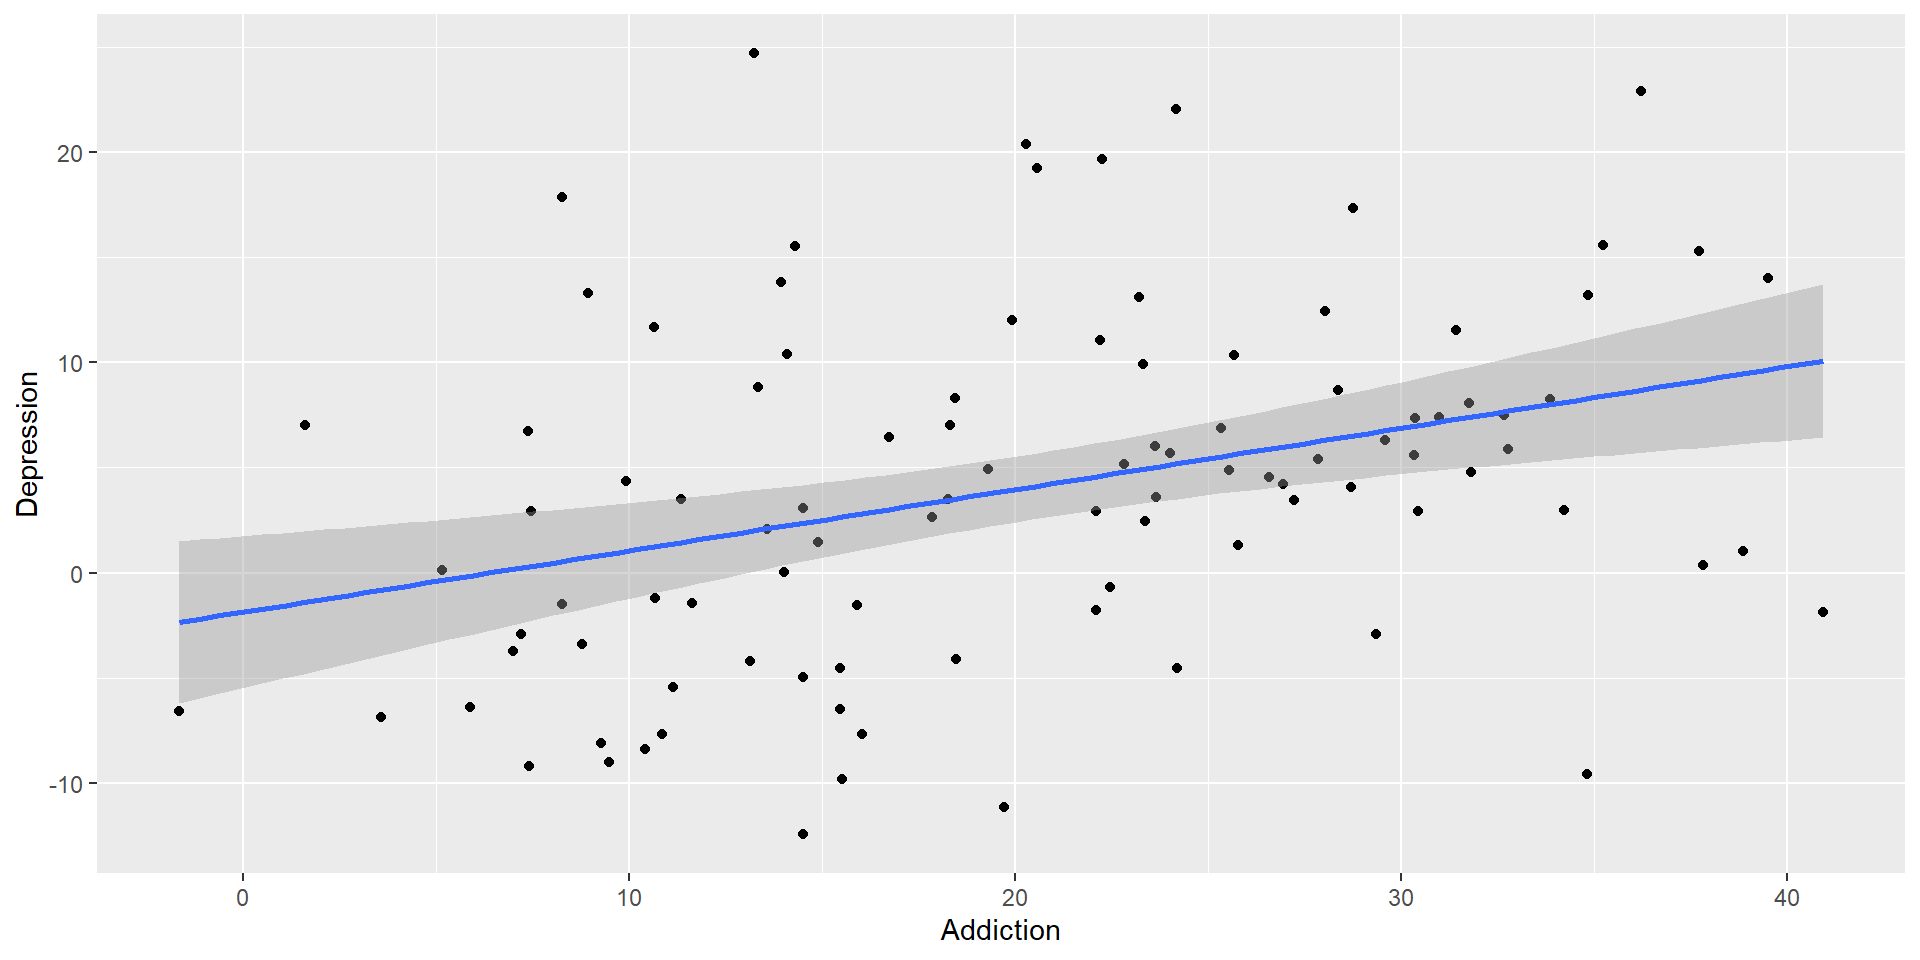
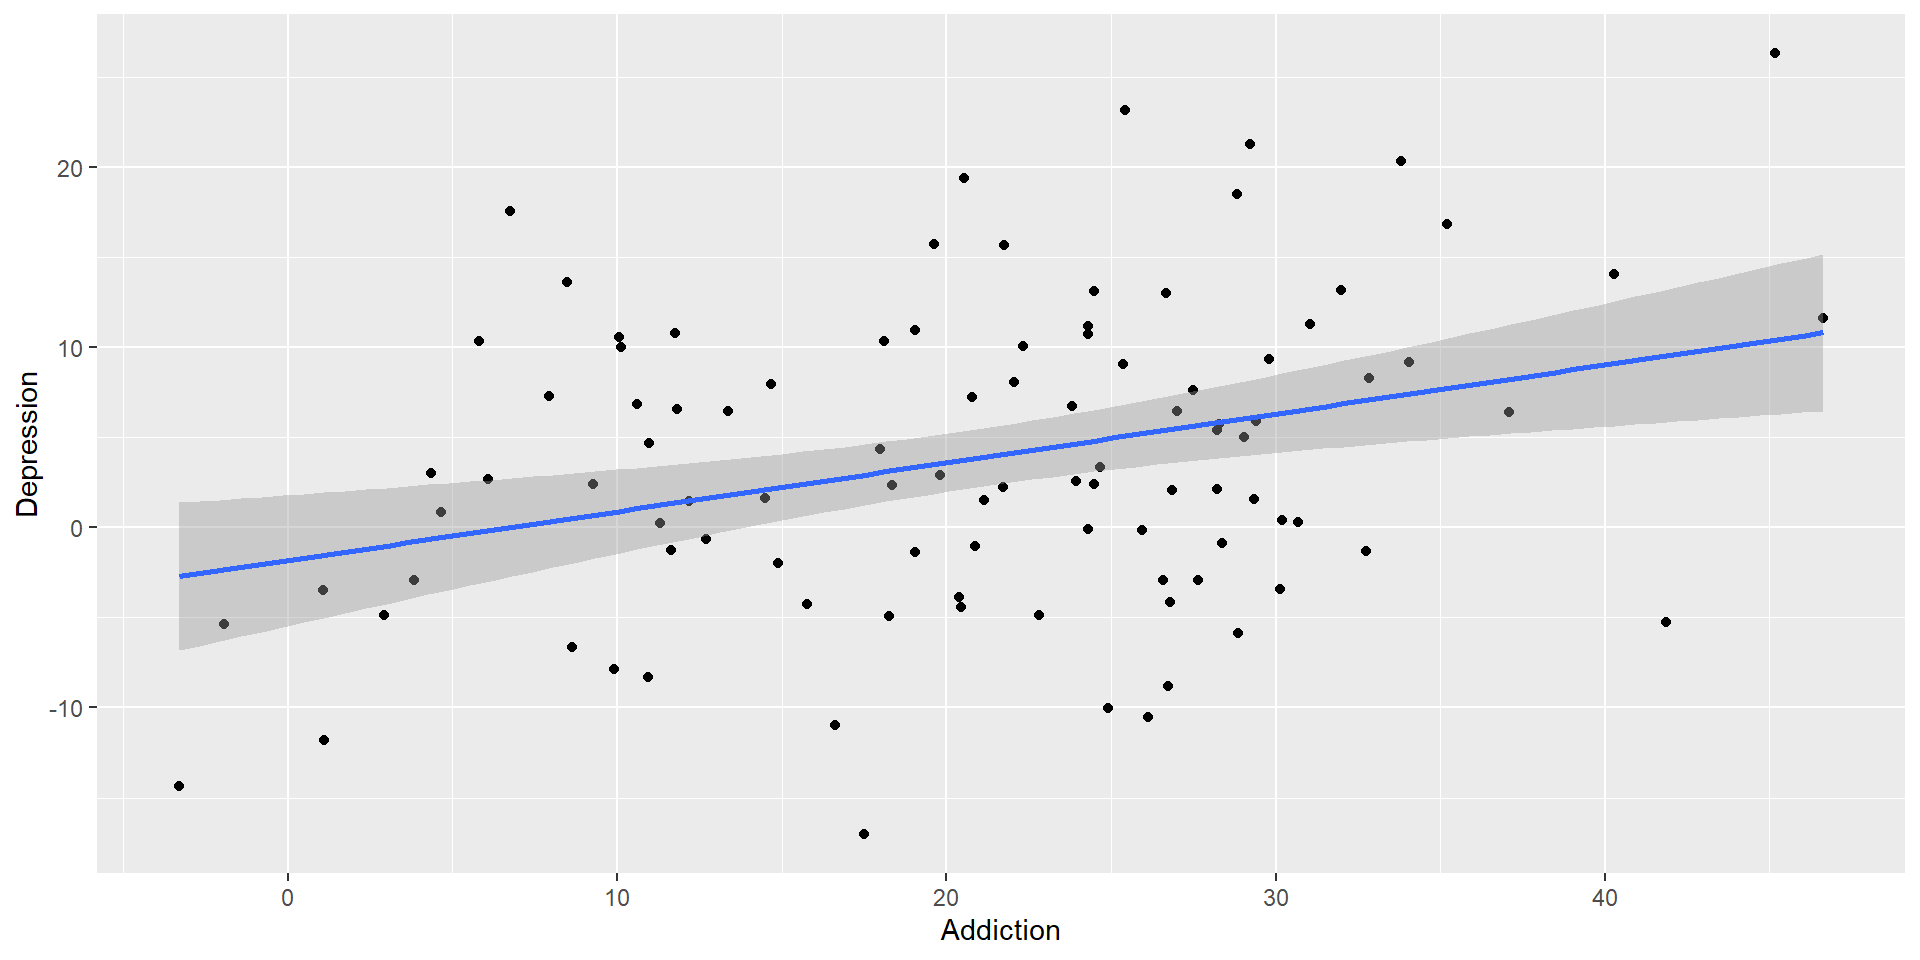
week12

diff --git a/docs/presentations/week12.html b/docs/presentations/week12.html
@@ -269,7 +269,7 @@
 y = mx + b
 \]</span></p>
 <p><span class="math display">\[
-\text{Depression} = \beta \times \text{Addiction} + \text{Noise}
+\text{Depression} = \beta \times \text{Addiction} + \text{Error}
 \]</span></p>
 <div class="fragment">
 <p>🖊</p>
@@ -310,10 +310,10 @@ y = mx + b
 <div id="tabset-1-1">
 <div class="card-list">
 <ol type="1">
-<li>Noise ~ normally distributed, mean = 0, sd = 8, with sample size 100</li>
+<li>Error ~ normally distributed, mean = 0, sd = 8, with sample size 100</li>
 <li>Addiction ~ normally distributed, mean = 20, sd = 10, with sample size 100</li>
 <li>Choose a <span class="math inline">\(\beta\)</span></li>
-<li>Calculate <span class="math inline">\(\text{Depression} = \beta \times \text{Social Media Addiction} + \text{noise}\)</span></li>
+<li>Calculate <span class="math inline">\(\text{Depression} = \beta \times \text{Social Media Addiction} + \text{Error}\)</span></li>
 <li>Plot a scatter plot of Depression vs.&nbsp;Addiction</li>
 </ol>
 </div>
@@ -414,12 +414,12 @@ y = mx + b
 .cpz-result.fail{color:#c62828}
 .cpz-tip{font-size:11px;color:#aaa;margin-top:6px}
 </style>
-<div class="cpz" id="cp9407341"><div class="cpz-layout"><div><div class="cpz-col-label">Code — drag to reorder · drop tokens onto blanks</div><div style="display:flex"><div class="cpz-linenums" id="cp9407341-linenums"></div><div class="cpz-code" id="cp9407341-code"></div></div></div><div><div class="cpz-col-label">Word Bank</div><div class="cpz-wb-wrap"><div id="cp9407341-wb"></div></div><div class="cpz-tip">Drag onto a blank · click a filled blank to clear · drag blanks to swap</div></div></div><div class="cpz-actions" id="cp9407341-actions"></div></div><script>
+<div class="cpz" id="cp5563391"><div class="cpz-layout"><div><div class="cpz-col-label">Code — drag to reorder · drop tokens onto blanks</div><div style="display:flex"><div class="cpz-linenums" id="cp5563391-linenums"></div><div class="cpz-code" id="cp5563391-code"></div></div></div><div><div class="cpz-col-label">Word Bank</div><div class="cpz-wb-wrap"><div id="cp5563391-wb"></div></div><div class="cpz-tip">Drag onto a blank · click a filled blank to clear · drag blanks to swap</div></div></div><div class="cpz-actions" id="cp5563391-actions"></div></div><script>
 (function(){
 try{
-var ID="cp9407341";
-var BLOCKS=[{"indentDepth":0,"kind":"fixed","lines":[{"parts":[{"value":"Noise <- rnorm(n = ","type":"text"},{"answers":["100"],"type":"free"},{"value":", mean = ","type":"text"},{"answers":["0"],"type":"free"},{"value":", sd = ","type":"text"},{"answers":["8"],"type":"free"},{"value":")","type":"text"}],"indent":0}]},{"indentDepth":0,"kind":"fixed","lines":[{"parts":[{"value":"x <- ","type":"text"},{"answers":["rnorm(n = 100, mean = 20, sd = 10)","rnorm(mean = 20, sd = 10, n = 100)"],"type":"free"}],"indent":0}]},{"indentDepth":0,"kind":"fixed","lines":[{"parts":[{"answers":["beta"],"type":"wb"},{"value":" <- # choose your own number","type":"text"}],"indent":0}]},{"indentDepth":0,"kind":"drag","lines":[{"parts":[{"answers":["y"],"type":"wb"},{"value":" <- beta*","type":"text"},{"answers":["x"],"type":"wb"},{"value":" + ","type":"text"},{"answers":["Noise"],"type":"wb"}],"indent":0}]},{"indentDepth":0,"kind":"drag","lines":[{"parts":[{"value":"df <- tibble(Depression = ","type":"text"},{"answers":["y"],"type":"free"},{"value":", Addiction = ","type":"text"},{"answers":["x"],"type":"free"},{"value":")","type":"text"}],"indent":0}]},{"indentDepth":0,"kind":"drag","lines":[{"parts":[{"value":"ggplot(","type":"text"},{"answers":["df"],"type":"free"},{"value":", ","type":"text"},{"answers":["aes(x = Addiction, y = Depression)","aes(y = Depression, x = Addiction)"],"type":"free"},{"value":") + ","type":"text"},{"answers":["geom_point()"],"type":"wb"}],"indent":0}]}];
-var WB=["beta","y","x","Noise","geom_point()"];
+var ID="cp5563391";
+var BLOCKS=[{"indentDepth":0,"lines":[{"indent":0,"parts":[{"type":"text","value":"Error <- rnorm(n = "},{"type":"free","answers":["100"]},{"type":"text","value":", mean = "},{"type":"free","answers":["0"]},{"type":"text","value":", sd = "},{"type":"free","answers":["8"]},{"type":"text","value":")"}]}],"kind":"fixed"},{"indentDepth":0,"lines":[{"indent":0,"parts":[{"type":"text","value":"x <- "},{"type":"free","answers":["rnorm(n = 100, mean = 20, sd = 10)","rnorm(mean = 20, sd = 10, n = 100)"]}]}],"kind":"fixed"},{"indentDepth":0,"lines":[{"indent":0,"parts":[{"type":"wb","answers":["beta"]},{"type":"text","value":" <- # choose your own number"}]}],"kind":"fixed"},{"indentDepth":0,"lines":[{"indent":0,"parts":[{"type":"wb","answers":["y"]},{"type":"text","value":" <- beta*"},{"type":"wb","answers":["x"]},{"type":"text","value":" + "},{"type":"wb","answers":["Error"]}]}],"kind":"drag"},{"indentDepth":0,"lines":[{"indent":0,"parts":[{"type":"text","value":"df <- tibble(Depression = "},{"type":"free","answers":["y"]},{"type":"text","value":", Addiction = "},{"type":"free","answers":["x"]},{"type":"text","value":")"}]}],"kind":"drag"},{"indentDepth":0,"lines":[{"indent":0,"parts":[{"type":"text","value":"ggplot("},{"type":"free","answers":["df"]},{"type":"text","value":", "},{"type":"free","answers":["aes(x = Addiction, y = Depression)","aes(y = Depression, x = Addiction)"]},{"type":"text","value":") + "},{"type":"wb","answers":["geom_point()"]}]}],"kind":"drag"}];
+var WB=["beta","y","x","Error","geom_point()"];
 var SHOW_ANSWERS=false;
 var SHOW_HINT=false;
 var order,slotVals;
